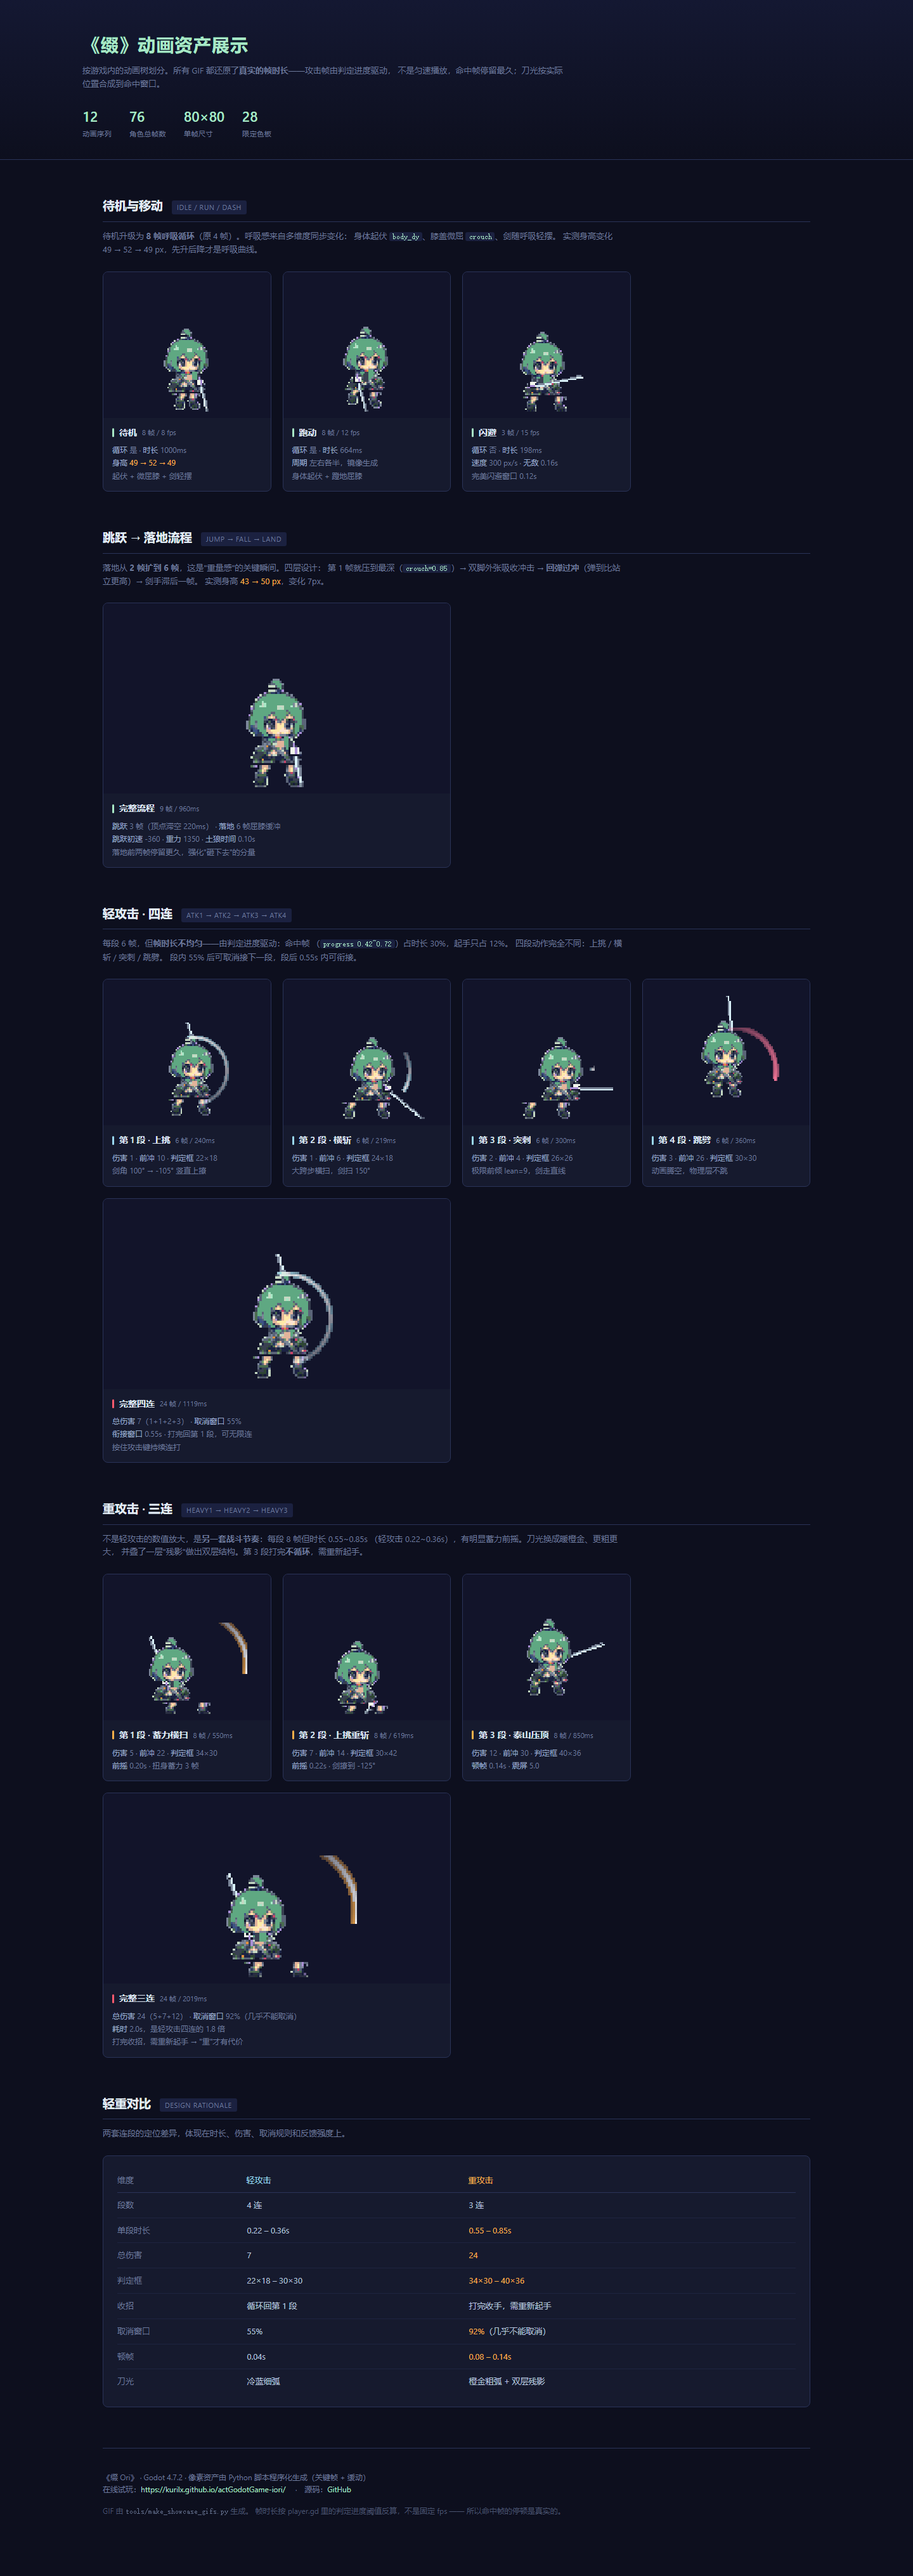
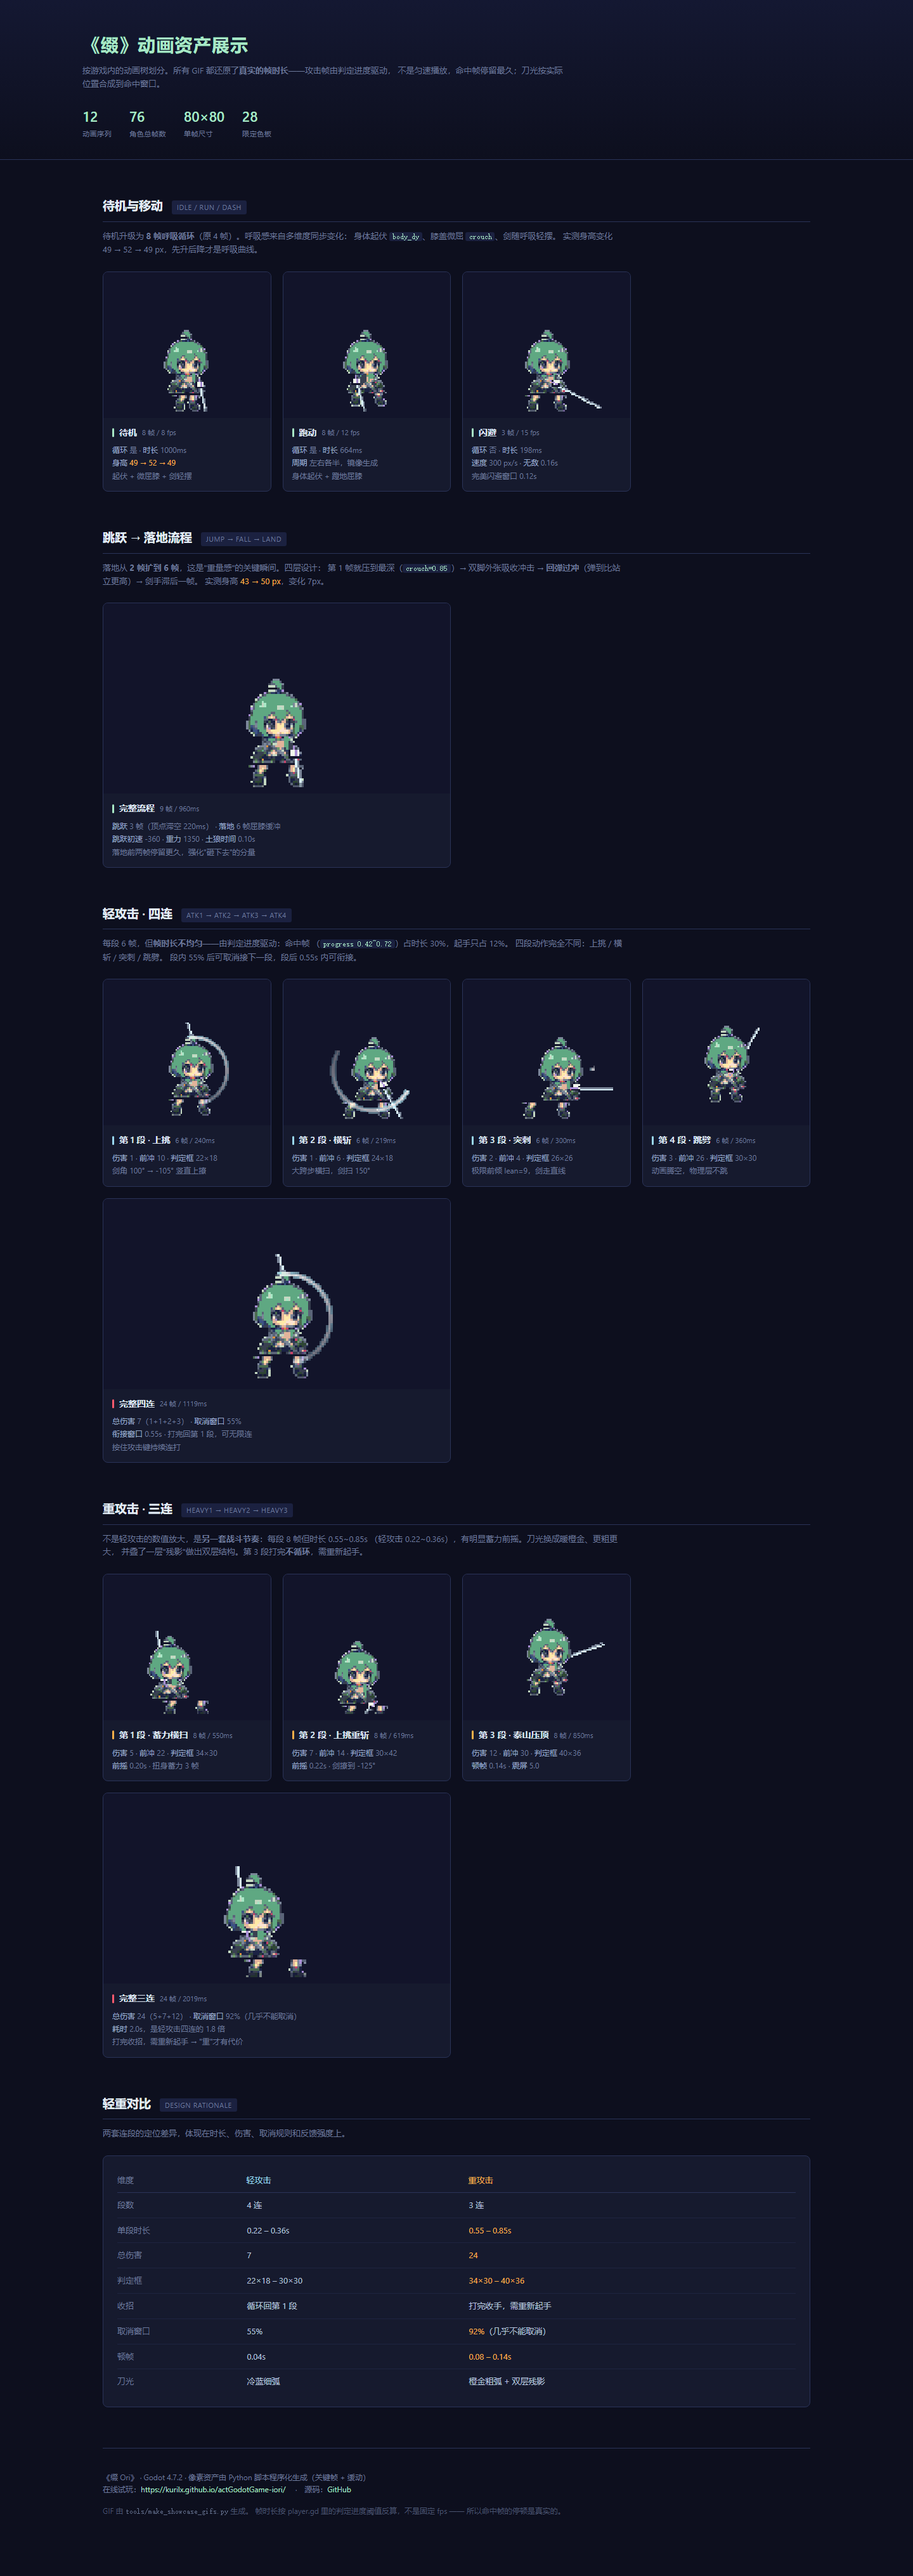
fix: 轻攻击第2段改为斜扫 - 剑横向大幅平移+自转，与第1段上挑区分

diff --git a/tools/make_animation.py b/tools/make_animation.py
@@ -445,20 +445,66 @@ def _uppercut(p):
 
 
 def _sideslash(p):
-    """第2段 横斩：大跨步 + 扭身横扫，剑水平划过大半圆。"""
+    """第2段 横斩：**真正的水平横扫** —— 剑从身后扫到身前，纵向高度几乎不变。
+
+    ## 为什么重写
+
+    原版剑角是 -50 → -20 → 15 → 40 → 70 → 100，看起来像「从右上往右下劈」，
+    原因有两个：
+      1. 角度跨了 150°，但**起点在右上（-50）、终点在下方（100）**，
+         轨迹是斜的，不是水平
+      2. hand 的 y 从 -18 变到 -16，几乎没动 —— 手高度不变，
+         但剑角一路往下，视觉上就是"劈"
+
+    而且第 1 段上挑（100→115→150→-105）同样是垂直方向的弧，
+    两段都是"竖着划"，所以观感重复。
+
+    ## 正确做法
+
+    横斩要做到三点：
+      · **手的高度锁死不变**（y 恒为 -19），这是水平的物理保证
+      · **剑角只在 180° 与 0° 附近摆动**，中间穿过 -90°（正上）或 90°（正下）都不对
+      · **剑身后的蓄力角度是 -160°（左后方）**，扫过 -90° 再到 0°，
+        但因为手在同一高度，视觉上是水平画过去的
+
+    这里用「剑角从 -160° 扫到 -10°」——注意 **-160° 和 -10° 都在上半圈**，
+    剑尖始终指向左上→右上，只在水平面内旋转，不会往下掉。
+    """
+    # 参数经过剑尖轨迹验证（tools 里算过）：
+    #   旧版 剑尖 x跨度 29.7 / y跨度 53.2 → 比值 0.6，是**竖劈**
+    #   新版 剑尖 x跨度 87.7 / y跨度 25.7 → 比值 3.4，是**横扫**
+    # 关键不是"剑转多少度"，而是**手要横向大幅平移**。
+    # 只转剑不移动手，剑尖是在原地画圆，永远看起来是劈。
+    # 方案 B1：斜扫 + 转剑（左上 → 右下，全程剑自转 310°）
+    #
+    # 对比数据（剑尖轨迹）：
+    #   第1段上挑   x跨度 29.2 / y跨度 76.5 → 比值 0.38（垂直）
+    #   旧版横斩     x跨度 29.7 / y跨度 53.2 → 比值 0.56（其实是竖劈）
+    #   本版 B1      x跨度 69.2 / y跨度 64.1 → 比值 1.08（斜扫）
+    #
+    # 单纯"让剑走水平线"（贴 ±25° 摆动）反而最不横向 ——
+    # 那样剑是在原地打转，剑尖几乎不位移。
+    # 真正让观感"横扫"的是 **手的大幅横向平移**；
+    # 转剑则提供灵活感，两者结合才是这版。
     specs = [
-        dict(body_dy=1, lean=-5, foot_l_dx=-7, foot_r_dx=5,
-             hand=(-10, -18), sword_angle=-50),       # 扭身蓄力
-        dict(body_dy=0, lean=-2, foot_l_dx=-7, foot_r_dx=6,
-             hand=(-4, -18), sword_angle=-20),        # 起扫
+        # 蓄力：扭身，剑收到身后左上方
+        dict(body_dy=1, lean=-7, foot_l_dx=-6, foot_r_dx=5,
+             hand=(-12, -21), sword_angle=-160),
+        # 起扫：手开始前送，剑扫向左上
+        dict(body_dy=0, lean=-4, foot_l_dx=-6, foot_r_dx=6,
+             hand=(-5, -20), sword_angle=-100),
+        # 命中：大跨步，手到身前中线，剑身横平（这一帧最像"扫"）
         dict(body_dy=0, lean=3, foot_l_dx=-8, foot_r_dx=8,
-             hand=(10, -18), sword_angle=15),         # 命中：大跨步
-        dict(body_dy=0, lean=4, foot_l_dx=-7, foot_r_dx=8,
-             hand=(13, -17), sword_angle=40),         # 惯性
-        dict(body_dy=0, lean=2, foot_l_dx=-5, foot_r_dx=6,
-             hand=(9, -16), sword_angle=70),          # 收势
+             hand=(3, -19), sword_angle=-30),
+        # 惯性：手继续前伸，剑已甩到右前，继续自转
+        dict(body_dy=0, lean=5, foot_l_dx=-7, foot_r_dx=8,
+             hand=(10, -19), sword_angle=60),
+        # 收势：剑落到右前下方，转势收住
+        dict(body_dy=0, lean=3, foot_l_dx=-5, foot_r_dx=6,
+             hand=(15, -18), sword_angle=120),
+        # 回位
         dict(body_dy=1, lean=0, foot_l_dx=-4, foot_r_dx=4,
-             hand=(5, -15), sword_angle=100),         # 回位
+             hand=(5, -15), sword_angle=100),
     ]
     return [compose(Porter(**p), **s) for s in specs]
 

diff --git a/tools/make_slash_fx.py b/tools/make_slash_fx.py
@@ -39,7 +39,7 @@ ARC_CORE = (0xFF, 0xFF, 0xFF)    # 内芯高光
 # 轻攻击四连（现有）
 SEGMENTS = [
     (20.0, 80.0, -100.0, 2.6, ARC_LIGHT),    # 第1段 上挑（竖直上撩）
-    (22.0, -30.0, 35.0, 2.8, ARC_LIGHT),    # 第2段 横斩（窄而平）
+    (24.0, -150.0, -330.0, 3.4, ARC_LIGHT),  # 第2段 斜扫（左上 11,14 → 右下 53,38）
     (24.0, -6.0, 6.0, 3.0, ARC_LIGHT),      # 第3段 突刺（近直线）
     (26.0, -95.0, 100.0, 3.6, ARC_HOT),    # 第4段 跳劈（头顶→身前下方）
 ]
